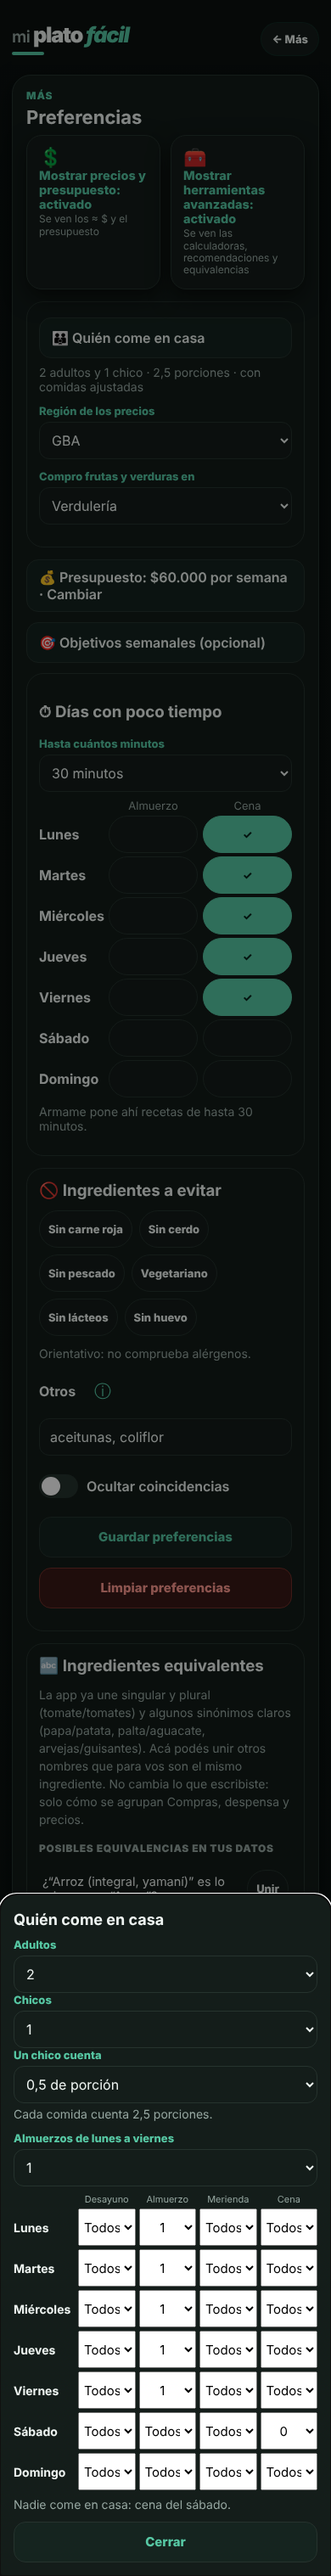
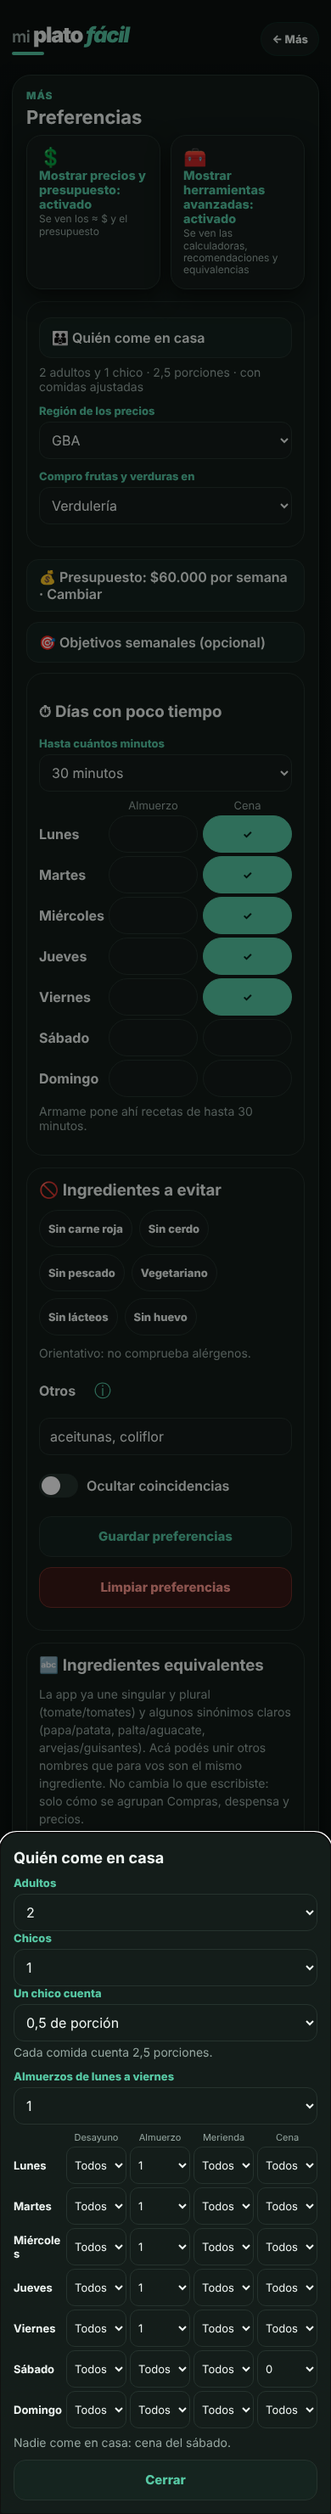
Etapa 55: grilla de comensales a 320 px, capturas de F-02 y Registro
Claude-Session: https://claude.ai/code/session_013apjtg9s7WhVBtjMzXPnF4

Changed region(s): [[0.0308, 0.031, 0.9846, 0.9936], [0.6154, 0.3105, 0.8923, 0.4036], [0.0923, 0.031, 0.4308, 0.0931]]

diff --git a/index.html b/index.html
@@ -3812,10 +3812,10 @@ body:has(#gustoPregunta:not(.gusto-pregunta--cocina)){padding-bottom:72px}
 .hoy-aviso .button{flex:0 0 auto;min-height:44px;margin:0;padding:6px 14px}
 /* Etapa 51: quién come en cada comida (Preferencias). */
 .comensales-grilla{display:grid;gap:4px;margin:8px 0}
-.comensales-fila{display:grid;grid-template-columns:72px repeat(4,minmax(0,1fr));gap:4px;align-items:center}
-.comensales-fila__dia{font-weight:700;font-size:14px}
+.comensales-fila{display:grid;grid-template-columns:58px repeat(4,minmax(0,1fr));gap:4px;align-items:center}
+.comensales-fila__dia{font-weight:700;font-size:13px;overflow-wrap:anywhere}
 .comensales-fila__slot{font-size:11px;color:var(--muted);text-align:center;overflow-wrap:anywhere}
-.comensales-fila__sel{min-width:0;min-height:44px;width:100%;padding:0 2px;font-size:15px;text-align:center}
+.comensales-fila__sel{min-width:0;min-height:44px;width:100%;padding:0 0 0 5px;font-size:13px;text-align:left;border:1px solid var(--line);border-radius:10px;background-color:var(--surface);color:var(--text)}
 /* Etapa 52: "Cargar ticket (foto)" y su revisión. */
 #ticketCargar[hidden]{display:none}
 #ticketCargar{margin-top:8px}
@@ -18232,10 +18232,10 @@ pintar(){
   const total=document.getElementById("comensalesTotal");
   if(total){
     const b=c?Comensales.base():personasHogar();
-    total.textContent="Cada comida cuenta "+String(b).replace(".",",")+(b===1?" porción.":" porciones.")
+    total.textContent="Cada comida cuenta "+String(b).replace(".",",")+(b===1?" porción.":" porciones.")+" En la grilla, – es que comen todos."
   }
-  const opciones=()=>{
-    const out=[],todos=ce("option",null,"Todos");
+  const opciones=(corto)=>{
+    const out=[],todos=ce("option",null,corto?"–":"Todos");
     todos.value="";
     out.push(todos);
     for(let i=0;i<=12;i++){
@@ -18256,10 +18256,12 @@ pintar(){
   encabezado.append(ce("span"),...["desayuno","almuerzo","merienda","cena"].map(s=>ce("span","comensales-fila__slot",Semana.planSlotName(s))));
   grilla.replaceChildren(encabezado,...DAYS.map(([d,nombre])=>{
     const fila=ce("div","comensales-fila");
-    fila.append(ce("span","comensales-fila__dia",nombre));
+    const dia=ce("span","comensales-fila__dia",nombre.slice(0,3));
+    dia.setAttribute("aria-label",nombre);
+    fila.append(dia);
     for(const s of ["desayuno","almuerzo","merienda","cena"]){
       const sel=ce("select","comensales-fila__sel");
-      sel.append(...opciones());
+      sel.append(...opciones(true));
       sel.dataset.comensalesHueco=d+"|"+s;
       sel.value=c&&c.huecos[d+"|"+s]!==undefined?String(c.huecos[d+"|"+s]):"";
       sel.setAttribute("aria-label",Semana.planSlotName(s)+" del "+nombre.toLowerCase()+": cuántos comen en casa");

diff --git a/fuente/codigo/51-comensales.js b/fuente/codigo/51-comensales.js
@@ -174,10 +174,10 @@ pintar(){
   const total=document.getElementById("comensalesTotal");
   if(total){
     const b=c?Comensales.base():personasHogar();
-    total.textContent="Cada comida cuenta "+String(b).replace(".",",")+(b===1?" porción.":" porciones.")
+    total.textContent="Cada comida cuenta "+String(b).replace(".",",")+(b===1?" porción.":" porciones.")+" En la grilla, – es que comen todos."
   }
-  const opciones=()=>{
-    const out=[],todos=ce("option",null,"Todos");
+  const opciones=(corto)=>{
+    const out=[],todos=ce("option",null,corto?"–":"Todos");
     todos.value="";
     out.push(todos);
     for(let i=0;i<=12;i++){
@@ -198,10 +198,12 @@ pintar(){
   encabezado.append(ce("span"),...["desayuno","almuerzo","merienda","cena"].map(s=>ce("span","comensales-fila__slot",Semana.planSlotName(s))));
   grilla.replaceChildren(encabezado,...DAYS.map(([d,nombre])=>{
     const fila=ce("div","comensales-fila");
-    fila.append(ce("span","comensales-fila__dia",nombre));
+    const dia=ce("span","comensales-fila__dia",nombre.slice(0,3));
+    dia.setAttribute("aria-label",nombre);
+    fila.append(dia);
     for(const s of ["desayuno","almuerzo","merienda","cena"]){
       const sel=ce("select","comensales-fila__sel");
-      sel.append(...opciones());
+      sel.append(...opciones(true));
       sel.dataset.comensalesHueco=d+"|"+s;
       sel.value=c&&c.huecos[d+"|"+s]!==undefined?String(c.huecos[d+"|"+s]):"";
       sel.setAttribute("aria-label",Semana.planSlotName(s)+" del "+nombre.toLowerCase()+": cuántos comen en casa");

diff --git a/pruebas/r6e51_comensales.js b/pruebas/r6e51_comensales.js
@@ -86,7 +86,7 @@
   await abrir({});
   await prefs();
   const celdas = qa("#comensalesGrilla [data-comensales-hueco]");
-  ok("R6-Q-02 Preferencias tiene una grilla con un selector por cada comida de cada día (7 × 4), de al menos 44 px, con 'Todos' por omisión", celdas.length === 28 && celdas.every(c => c.getBoundingClientRect().height >= 43.5 && c.value === "") && /Todos/.test(celdas[0].options[0].text) && visible($("comensalesGrilla")), String(celdas.length));
+  ok("R6-Q-02 Preferencias tiene una grilla con un selector por cada comida de cada día (7 × 4), de al menos 44 px, con '–' (comen todos) por omisión", celdas.length === 28 && celdas.every(c => c.getBoundingClientRect().height >= 43.5 && c.value === "") && celdas[0].options[0].text === "–" && visible($("comensalesGrilla")), String(celdas.length));
   ok("R6-Q-02 mirar la grilla no escribe nada", localStorage.getItem(CLAVE) === null);
   await cambiar(qa("[data-comensales-hueco='sabado|cena']")[0], "0");
   ok("R6-Q-02 un hueco en 0 dice 'Nadie come en casa' (en la grilla, y se guarda en la clave nueva)", /Nadie come en casa: cena del sábado\./.test(norm($("comensalesEstado").textContent)) && J(CLAVE).huecos["sabado|cena"] === 0, localStorage.getItem(CLAVE));

diff --git a/fuente/estilos.css b/fuente/estilos.css
@@ -3811,10 +3811,10 @@ body:has(#gustoPregunta:not(.gusto-pregunta--cocina)){padding-bottom:72px}
 .hoy-aviso .button{flex:0 0 auto;min-height:44px;margin:0;padding:6px 14px}
 /* Etapa 51: quién come en cada comida (Preferencias). */
 .comensales-grilla{display:grid;gap:4px;margin:8px 0}
-.comensales-fila{display:grid;grid-template-columns:72px repeat(4,minmax(0,1fr));gap:4px;align-items:center}
-.comensales-fila__dia{font-weight:700;font-size:14px}
+.comensales-fila{display:grid;grid-template-columns:58px repeat(4,minmax(0,1fr));gap:4px;align-items:center}
+.comensales-fila__dia{font-weight:700;font-size:13px;overflow-wrap:anywhere}
 .comensales-fila__slot{font-size:11px;color:var(--muted);text-align:center;overflow-wrap:anywhere}
-.comensales-fila__sel{min-width:0;min-height:44px;width:100%;padding:0 2px;font-size:15px;text-align:center}
+.comensales-fila__sel{min-width:0;min-height:44px;width:100%;padding:0 0 0 5px;font-size:13px;text-align:left;border:1px solid var(--line);border-radius:10px;background-color:var(--surface);color:var(--text)}
 /* Etapa 52: "Cargar ticket (foto)" y su revisión. */
 #ticketCargar[hidden]{display:none}
 #ticketCargar{margin-top:8px}

diff --git a/docs/plan-rediseno.md b/docs/plan-rediseno.md
@@ -3445,3 +3445,5 @@ Rama `rediseno-6-etapa-55-cierre`. Reúne el cierre de las Etapas 53 y 54 (su co
 - Recorrido de una semana completa de punta a punta (`pruebas/r6e55_semana.js`, 11 pruebas, viernes 27/11/2026): armar la semana que viene con "Armame la semana" (queda en `planProxima_v1` con el lunes 30/11, usa las favoritas), comprar (el viernes la lista abre en "La semana que viene", tachar se guarda en esa semana y "Terminé de comprar" lo deja como comprado), cocinar una receta en el modo cocina hasta el último paso, "Lo comí" (queda en el registro de hoy y el historial de cocinado), "¿Te gustó?" → "Sí" (queda en `gustos_v1`) y el Registro.
 - `revisor-usuario` miró las pantallas a 390, 360 y 320 px, en claro y en oscuro (capturas de la compuerta en `capturas/etapa-55`, `-360` y `-320`), con los ítems de las nueve etapas.
 - `docs/ronda-6-lista.md` termina con el resumen (46 ✅ y 5 ⚠, ninguno en ⬜) y `docs/informe-ronda-6.md` es la descripción del PR `rediseno-6` → `main` (sin mergear).
+- Recorrido final de `revisor-usuario` (BLOQUEANTE solo por un hallazgo, corregido): la grilla de "Quién come en casa" cortaba "Todos" y la flecha a 390 y 320 px y mostraba cajas blancas en oscuro. Ahora cada celda dice "–" (comen todos; lo explica la ayuda de la hoja) y el día va abreviado ("Lun", "Mié"…, con su nombre completo para el lector de pantalla), con el estilo de selectores de la app; capturas nuevas a 390 y a 320 px (`comensales-hoja-despues-320.png` y `-oscuro-320.png`). También se corrigieron las capturas de F-02 (el hueco "Afuera" no se veía porque la escena lo marcaba antes de armar la semana). Anotado sin cambiar (sugerencias, ninguna rompe un ítem): placeholder del buscador de Comidas cortado en 320 (viene de la v14), Comidas y Compras vacías con más de una acción llena o con "Terminé de comprar" visible, la hoja de una comida de la Semana con 9 botones del mismo peso, el bloque de nutrición entre ingredientes y pasos de la ficha, dos botones llenos en un paso con temporizador, "Nadie come en casa" pegado al nombre y con "Lo comí" activo en esa comida de la captura (en la app, ese hueco ya no tiene "Lo comí"), fechas ISO en "Tus cambios guardados" y la imagen de la escena `imagen-semana` que queda encima en algunas capturas de la compuerta (residuo de la captura, no de la app).
+- Las capturas de la compuerta a 360 y 320 px solo traen las medidas (0 cortados, 0 superpuestos, 0 desbordes, 0 problemas de contraste, 0 scroll horizontal en los tres anchos); las imágenes de esas pantallas se miraron a 390 px y, para las nuevas, las capturas por ítem a 320 donde hay.
